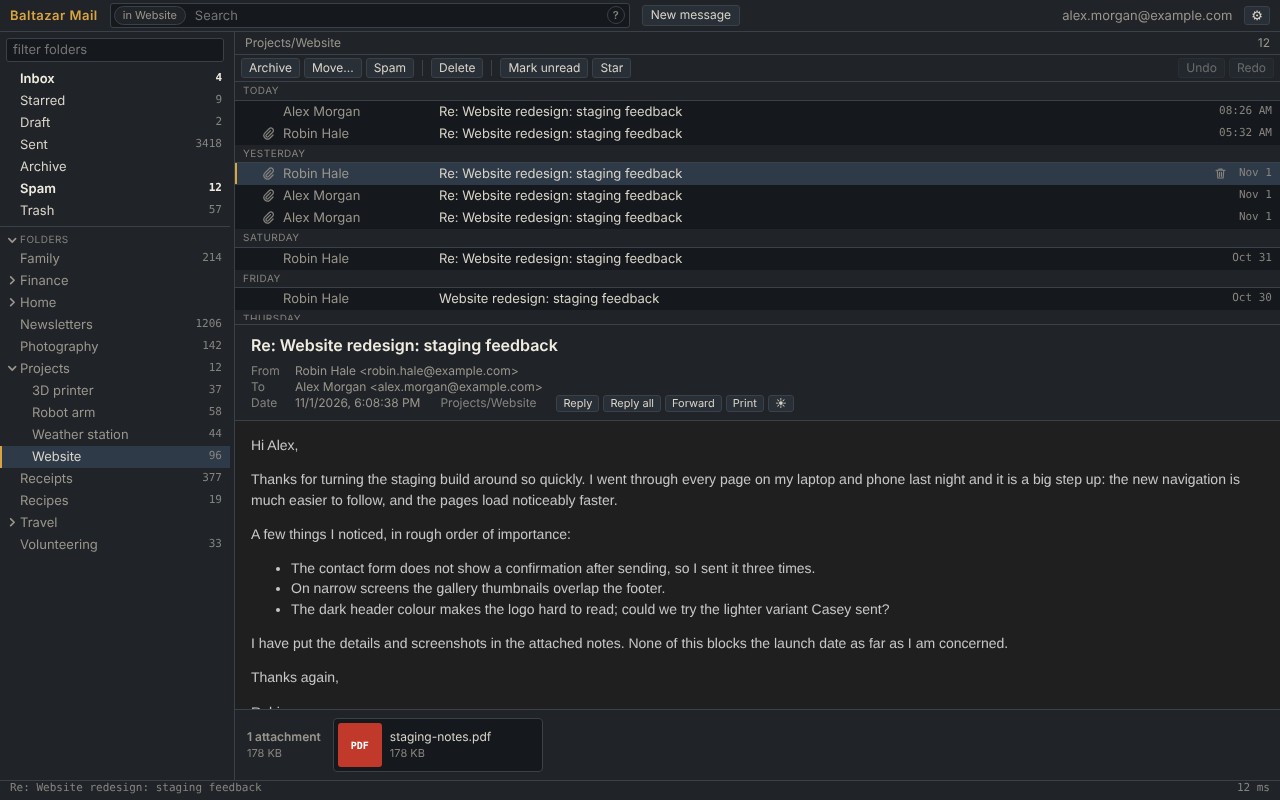
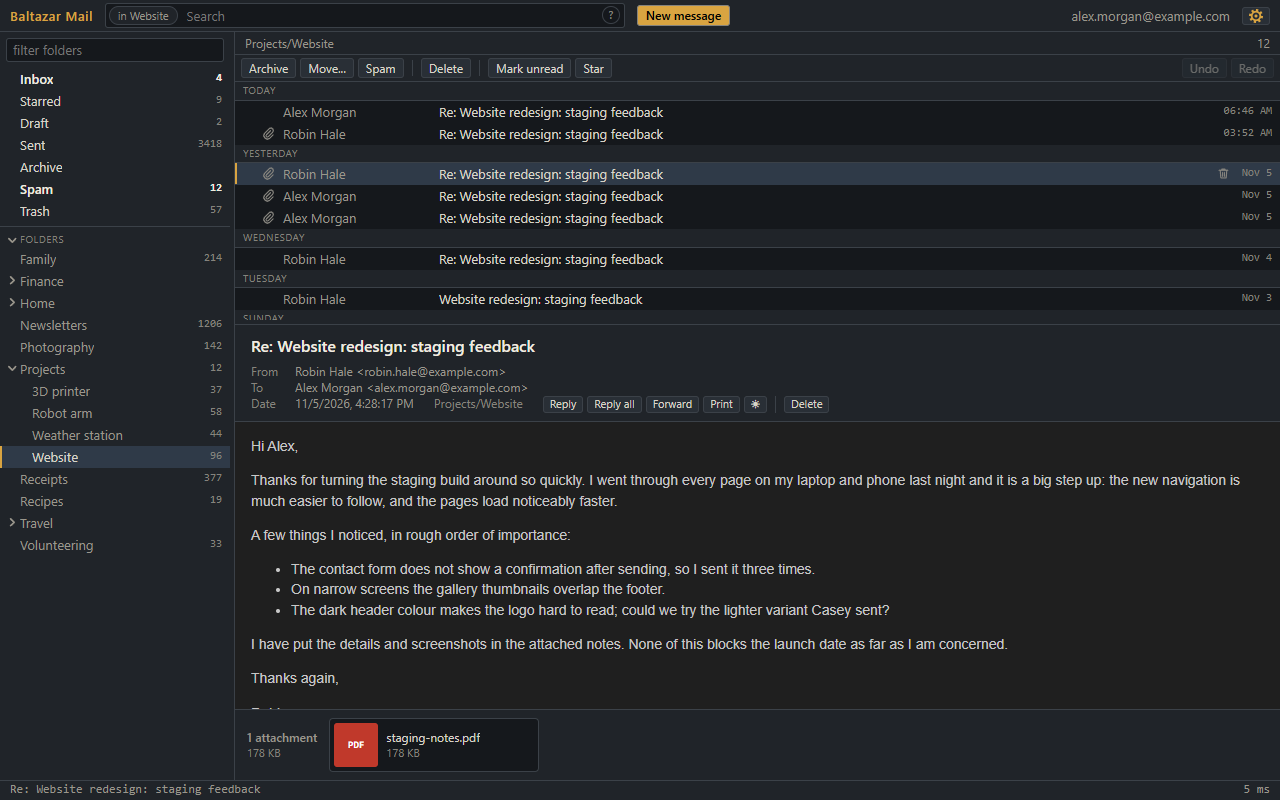
Regenerate the screenshots and store images and correct the documentation
The images show the new top bar, cog and status line. The docs now say that Starred and cross-folder search matches leave out Spam and Trash, that spreadsheets of every kind open locally, that the release check runs for any Load unpacked copy, which stored values the storage permission covers, and, for the Gmail edition, that only a copy built with a client id can sign in and that message images come from their senders.

diff --git a/README.md b/README.md
@@ -8,13 +8,13 @@ Baltazar Mail is an independent project by [Baltazar Studios](https://baltazarst
 
 ## Features
 
-- **Reading:** three-column or stacked layout with resizable panes, sixteen palettes, eight light and eight dark in a range of hues and mostly in light and dark pairs (two of them plain black and white), a contrast slider, one text size setting that scales the whole interface and the message, a zoom for the message pane alone, read or written, shown for a moment over the pane (+, - and 0, Ctrl+= / Ctrl+- / Ctrl+0 in the composer, or Ctrl+wheel over it), a row height setting, a Starred view across all folders, and remote images loaded automatically except in Spam and Trash. In a dark theme messages are darkened to match, keeping their colours' hues and leaving images alone; the ☀ button in the message header shows them in their original colours instead.
+- **Reading:** three-column or stacked layout with resizable panes, sixteen palettes, eight light and eight dark in a range of hues and mostly in light and dark pairs (two of them plain black and white), a contrast slider, one text size setting that scales the whole interface and the message, a zoom for the message pane alone, read or written, shown for a moment over the pane (+, - and 0, Ctrl+= / Ctrl+- / Ctrl+0 in the composer, or Ctrl+wheel over it), a row height setting, a Starred view across all folders but Spam and Trash, and remote images loaded automatically except in Spam and Trash. In a dark theme messages are darkened to match, keeping their colours' hues and leaving images alone; the ☀ button in the message header shows them in their original colours instead.
 - **Mailbox actions:** read/unread, star, archive, move, delete, spam and not spam, on one message or a selection (click, Shift-click for a range, Ctrl-click for single rows), with multi-level undo and redo. A trash icon beside each row's date deletes it without opening it. The reader has its own Delete button, for the open message alone; for a message in Trash it reads Undelete and moves it to Inbox without asking. Right-click a message for these and for Reply, Reply all, Forward and Find all from, with each shortcut shown.
 - **Folders:** right-click a folder to create a subfolder, rename, move or delete it (only when it and its subfolders are empty), or mark it all read; right-click Trash or Spam to empty it. The Folders heading above your own folders creates top-level folders and opens or closes the first level of subfolders; a double click opens or closes one folder. Subfolders of Inbox are shown under Inbox, as Yahoo files them.
-- **Search:** scoped to the open folder and its subfolders, with matches in other folders listed below a divider. Words must all match; `AND`, `OR`, `NOT` (or a leading `-`), parentheses, quoted phrases and the fields `from:` `to:` `subject:` `has:attachment` `is:starred` `is:read` `is:unread` `after:` `before:` refine it. The `?` in the search box explains the syntax.
+- **Search:** scoped to the open folder and its subfolders, with matches in other folders (Spam and Trash aside) listed below a divider. Words must all match; `AND`, `OR`, `NOT` (or a leading `-`), parentheses, quoted phrases and the fields `from:` `to:` `subject:` `has:attachment` `is:starred` `is:read` `is:unread` `after:` `before:` refine it. The `?` in the search box explains the syntax.
 - **Writing:** new message, reply, reply all and forward (with the original's attachments), drafts saved automatically, rich-text or plain-text editing with fonts, sizes and colours, pasted or dropped inline images, attachments, and undo-send.
 - **Address book:** built from your own Inbox and Sent headers, with autocomplete ranked by how recently you wrote to or heard from each person. Automated senders you never wrote to (noreply, notifications, bulk-mail domains) are left out of suggestions. Settings › Address book lists it with a filter and hide/restore, also in bulk.
-- **Attachments:** listed under the message and previewed in place: PDF with selectable text and zoom, Word, Excel and other spreadsheets, PowerPoint and older Office formats through Yahoo's converter, images, text and code, CSV, HTML, audio, video and ZIP listings. Anything else up to 100 KB can be read as text, or as a hex dump when it is binary.
+- **Attachments:** listed under the message and previewed in place: PDF with selectable text and zoom, Word, Excel and other spreadsheets, PowerPoint, older Word, RTF and OpenDocument text and slides through Yahoo's converter, images, text and code, CSV, HTML, audio, video and ZIP listings. Anything else up to 100 KB can be read as text, or as a hex dump when it is binary.
 - **Also:** a red dot on the tab icon and toolbar button when new mail arrives while the tab is in the background, or arrived while the browser was closed and the tab opens in the background (handy for a pinned tab), contact cards (right-click a message › About sender..., or hover an address in the message header) with the person's recent messages, each opening in its folder, printing, anything that failed shown in a bar under the top bar (with details to copy for a bug report), and all settings kept between sessions.
 
 Attachments open in place, here a two-page PDF with selectable text and zoom; photos, Office documents and spreadsheets open the same way:

diff --git a/store/LISTING.md b/store/LISTING.md
@@ -25,7 +25,7 @@ Single purpose description:
 
 Permission justifications:
 
-- `storage`: Keeps the user's settings (layout, theme and contrast, sizes, fonts, intervals) and the time of the last release check on this computer, and, for the browser session only, the Yahoo session values that Yahoo's own web page uses, so the extension does not reload Yahoo's page for every request, and a message being printed, until the print page has read it.
+- `storage`: Keeps the user's settings (layout, theme and contrast, sizes, fonts, intervals) the time of the last release check, the format of drafts saved here and when the mail tab was last looked at (for the new-mail dot) on this computer, and, for the browser session only, the Yahoo session values that Yahoo's own web page uses, so the extension does not reload Yahoo's page for every request, and a message being printed, until the print page has read it.
 - `declarativeNetRequest`: Yahoo's mail servers accept requests only when they come from mail.yahoo.com. One rule, registered by the extension at start-up and shipped in its code, sets the Origin and Referer headers to https://mail.yahoo.com on the extension's own requests to Yahoo's mail hosts. The rule is limited to requests the extension itself initiates (initiatorDomains is the extension's own ID), to XHR/fetch requests only, and to mail.yahoo.com and its subdomains. It changes nothing on any web page the user visits.
 - Host permission `https://mail.yahoo.com/*`: All mailbox operations (folders, message lists, search, reading, moving, deleting, drafts and sending) go to Yahoo's mail API on this host, with the user's existing Yahoo sign-in.
 - Host permission `https://*.mail.yahoo.com/*`: Yahoo serves message source (used to show attachments), attachment thumbnails and images embedded in messages from subdomains of mail.yahoo.com (apis.mail.yahoo.com, cloud-apis.mail.yahoo.com).
@@ -54,7 +54,7 @@ Description:
 
 > Baltazar Mail is a fast, clean, ad-free way to read and write your Yahoo Mail. It opens in its own tab and uses the Yahoo sign-in you already have in the browser, so there is nothing to set up: sign in to mail.yahoo.com once, then click the Baltazar Mail button.
 >
-> Reading: a three-column or stacked layout with resizable panes, sixteen light and dark palettes in different hues with a contrast slider, an adjustable text size, and a dark reading pane that darkens messages to match while keeping their hues and leaving images untouched. A Starred view collects flagged mail from every folder.
+> Reading: a three-column or stacked layout with resizable panes, sixteen light and dark palettes in different hues with a contrast slider, an adjustable text size, and a dark reading pane that darkens messages to match while keeping their hues and leaving images untouched. A Starred view collects flagged mail from every folder but Spam and Trash.
 >
 > Mailbox: mark messages read or unread, star, archive, move, delete or report them as spam, one at a time or as a selection, with multi-level undo and redo. Folders can be created, renamed, moved and nested, empty ones deleted, and Trash and Spam emptied, all from a right-click menu.
 >
@@ -82,7 +82,7 @@ Search terms (7 terms, 16 words): yahoo mail; yahoo mail client; email client; w
 
 > No test account is included. Baltazar Mail works with any Yahoo Mail account, and the reviewer's own or any existing test account can be used. A shared account cannot be provided reliably: Yahoo requires every new account to be verified with a personal mobile number (virtual numbers are rejected), and it challenges sign-ins from an unfamiliar computer with a code sent to that phone, so a reviewer could be locked out of a shared account. If access is still needed, please ask through Partner Center and it will be arranged promptly.
 >
-> To test: in the same browser profile, sign in to https://mail.yahoo.com with any Yahoo account, then click the Baltazar Mail toolbar button. The extension opens its own tab with the mailbox. Things to try: open a folder and a message, search (the ? next to the search box explains the syntax), open an attachment from the strip under a message, write a message to yourself with New message, and open Settings with the gear button. Nothing is changed in the account unless the reviewer moves, deletes or sends mail.
+> To test: in the same browser profile, sign in to https://mail.yahoo.com with any Yahoo account, then click the Baltazar Mail toolbar button. The extension opens its own tab with the mailbox. Things to try: open a folder and a message, search (the ? at the right end of the search box explains the syntax), open an attachment from the strip under a message, write a message to yourself with New message, and open Settings with the gear button. Nothing is changed in the account unless the reviewer moves, deletes or sends mail.
 >
 > How it works: the extension calls the same web API that Yahoo's own mail page uses, with the user's existing Yahoo sign-in; it never sees or stores the password. Yahoo's servers accept those calls only when they come from mail.yahoo.com, so a single declarativeNetRequest session rule sets Origin and Referer to https://mail.yahoo.com, limited to requests initiated by this extension (initiatorDomains), XHR/fetch only, on mail.yahoo.com and its subdomains.
 >

diff --git a/PRIVACY.md b/PRIVACY.md
@@ -4,7 +4,7 @@ Baltazar Mail is a browser extension that shows your Yahoo Mail. It has no serve
 
 ## Where your data goes
 
-The extension talks to Yahoo, using the Yahoo sign-in already in your browser, and, when installed from a release ZIP, to GitHub for one thing:
+The extension talks to Yahoo, using the Yahoo sign-in already in your browser, and, when loaded with Load unpacked (a release ZIP or a copy built from the source), to GitHub for one thing:
 
 | Host | Used for |
 |---|---|
@@ -12,7 +12,7 @@ The extension talks to Yahoo, using the Yahoo sign-in already in your browser, a
 | `apis.mail.yahoo.com` | the raw source of a message, from which attachments are taken for preview and download |
 | `cloud-apis.mail.yahoo.com` | attachment thumbnails, images embedded in messages, and Yahoo's text extraction for documents |
 | `*.yusercontent.com` | images in messages, which Yahoo routes through this proxy |
-| `api.github.com` | only for a copy installed from a release ZIP (Load unpacked), which cannot update itself: once a day, a request for the latest release number of this project, so Settings can say when an update is available. It carries no cookies, no account or mail data and no identifier; GitHub sees only what any web request shows (IP address and browser). The answer is used only for the version comparison; nothing is downloaded or installed. An install from a browser store is updated by the browser and never contacts GitHub |
+| `api.github.com` | only for a copy loaded with Load unpacked (a release ZIP or a copy built from the source), which cannot update itself: once a day, a request for the latest release number of this project, so Settings can say when an update is available. It carries no cookies, no account or mail data and no identifier; GitHub sees only what any web request shows (IP address and browser). The answer is used only for the version comparison; nothing is downloaded or installed. An install from a browser store is updated by the browser and never contacts GitHub |
 
 When a document format has no viewer in the extension (for example PowerPoint), the preview asks Yahoo's own document converter to render it. The file is already stored at Yahoo; nothing is sent elsewhere.
 
@@ -22,7 +22,7 @@ The extension's Content Security Policy (in `ext/manifest.json`) makes the brows
 
 | Data | Where | Why |
 |---|---|---|
-| Settings: layout, theme, palettes and contrast, text and row size, pane sizes, expanded folders, writing font, size and HTML or plain text, when images load, whether dark mode shows messages in their original colours, and the new-mail check, mark-read and undo-send intervals | the extension's local storage | so your choices persist |
+| Settings: layout, theme, palettes and contrast, text and row size, the message zoom, pane sizes, expanded folders, writing font, size and HTML or plain text, when images load, whether dark mode shows messages in their original colours, and the new-mail check, mark-read and undo-send intervals | the extension's local storage | so your choices persist |
 | When you last looked at the mail tab | the extension's local storage | so a tab that opens in the background shows the new-mail dot for mail that arrived while the browser was closed |
 | The latest release number and when it was checked | the extension's local storage | to ask GitHub once a day, or an hour later after a failed check |
 | For each draft saved here, whether it was written in HTML or plain text (keyed by the draft's id, removed when it is sent or discarded, at most 200 kept) | the extension's local storage | to reopen the draft in the same format |
